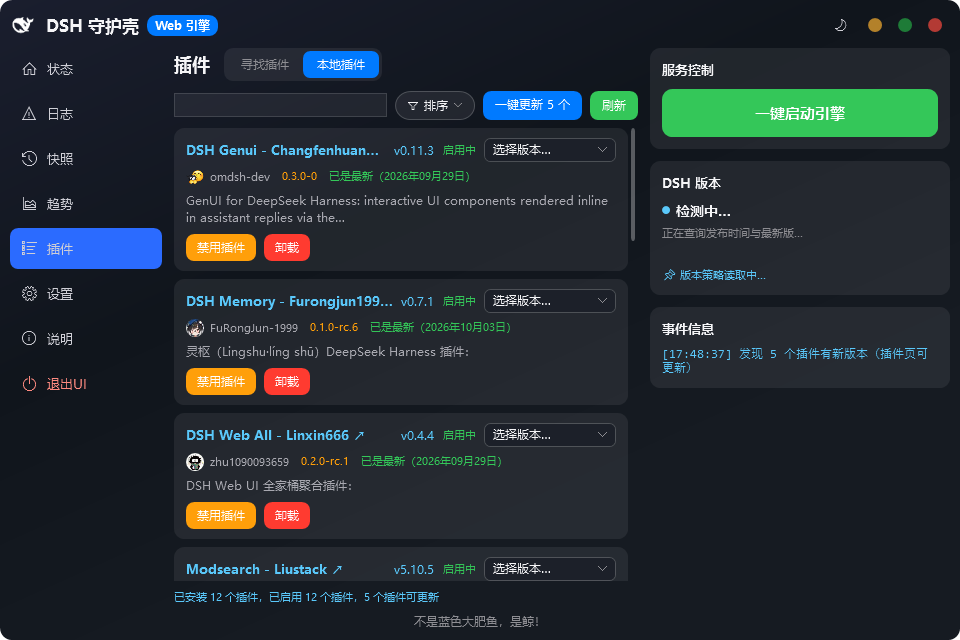
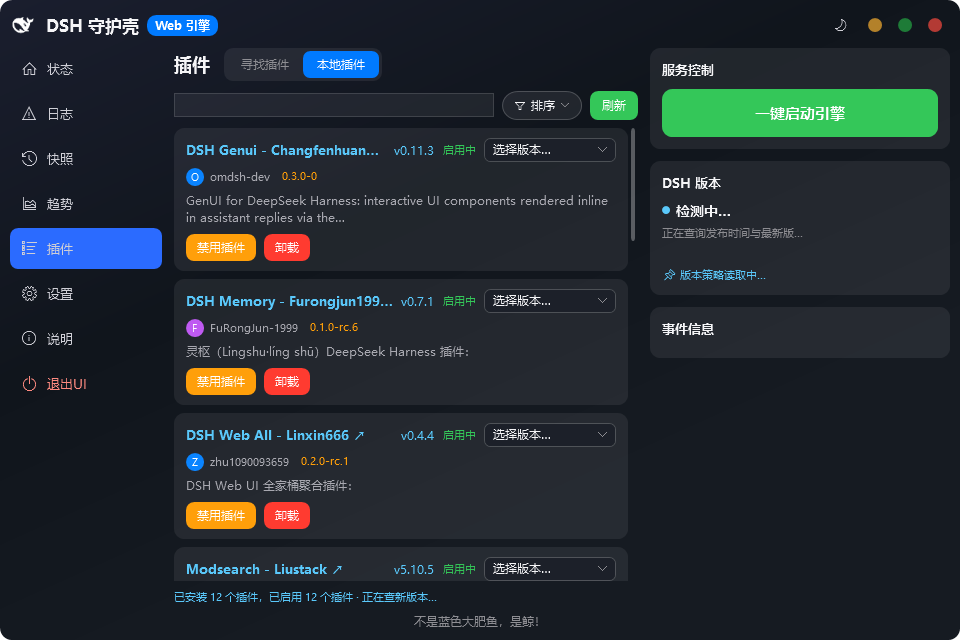
2.1.0：日志页「打开目录/导出诊断」改成品牌蓝实底，并修好 GitHub Contributors 少 DeepSeek

diff --git a/MainWindow.xaml b/MainWindow.xaml
@@ -652,14 +652,24 @@
                                     ToolTip="重新读取当前日志文件">
                                 <TextBlock Text="刷新" FontSize="12" Foreground="#F5F5F7"/>
                             </Border>
+                            <!-- 打开目录 / 导出诊断：原来是 MiniBtn 的默认半透明白（#18FFFFFF，日间映射成
+                                 半透明黑 ⇒ 灰底深字）。用户 2026-10-04 反馈"这俩按钮还是发黑"，
+                                 并要求"改个有颜色的" ⇒ 这里改回品牌蓝实底 #007AFF，与同排「复制日志」同色：
+                                 绿色「刷新」是这一行的主操作，其余三颗同色的次级操作，一眼分得出主次。
+                                 #007AFF 不在主题映射表里 ⇒ 两套主题同一个值；它满足 IsAccent 的
+                                 "b>180 && r<130" ⇒ 白字在两套主题下都保持白色。 -->
                             <Border Grid.Column="2" Style="{StaticResource MiniBtn}" Margin="8,0,0,0"
+                                    x:Name="LogOpenDirBtn"
+                                    Background="#007AFF"
                                     MouseLeftButtonDown="OpenLogFolder_Click" ToolTip="打开日志目录">
-                                <TextBlock Text="打开目录" FontSize="12" Foreground="#F5F5F7"/>
+                                <TextBlock Text="打开目录" FontSize="12" Foreground="White"/>
                             </Border>
                             <Border Grid.Column="3" Style="{StaticResource MiniBtn}" Margin="8,0,0,0"
+                                    x:Name="LogExportBtn"
+                                    Background="#007AFF"
                                     MouseLeftButtonDown="ExportDiagnostics_Click"
                                     ToolTip="把日志、设置与运行环境打包成一个压缩包（方便发给作者排查）">
-                                <TextBlock Text="导出诊断" FontSize="12" Foreground="#F5F5F7"/>
+                                <TextBlock Text="导出诊断" FontSize="12" Foreground="White"/>
                             </Border>
                             <Border Grid.Column="4" Style="{StaticResource MiniBtn}" Margin="8,0,0,0"
                                     Background="#007AFF" MouseLeftButtonDown="CopyLog_Click"
@@ -703,10 +713,12 @@
                                     MouseLeftButtonDown="RefreshSnapshots_Click" ToolTip="重新读取快照列表">
                                 <TextBlock Text="刷新" FontSize="12" Foreground="#F5F5F7"/>
                             </Border>
-                            <Border Style="{StaticResource MiniBtn}" Margin="8,0,0,0" MouseLeftButtonDown="OpenSnapshotDir_Click"
+                            <!-- 同日志页那一对：改品牌蓝实底，理由与理由见上面的注释（同一个按钮在两个页面长得一样）。 -->
+                            <Border Style="{StaticResource MiniBtn}" Margin="8,0,0,0" Background="#007AFF"
+                                    MouseLeftButtonDown="OpenSnapshotDir_Click"
                                     x:Name="SnapOpenDirBtn"
                                     ToolTip="在文件管理器里打开本程序的快照文件夹">
-                                <TextBlock Text="打开目录" FontSize="12" Foreground="#F5F5F7"/>
+                                <TextBlock Text="打开目录" FontSize="12" Foreground="White"/>
                             </Border>
                             <TextBlock x:Name="SnapRootText" FontSize="11" Foreground="#48484A"
                                        VerticalAlignment="Center" Margin="10,0,0,0" TextTrimming="CharacterEllipsis"/>

diff --git a/SelfTest.cs b/SelfTest.cs
@@ -8680,6 +8680,19 @@ public static partial class SelfTest
                     foundLog
                         ? $"文案=«{textLog}» · 底色={bgLog}（MiniBtn 默认底 #18FFFFFF 的 A=18 是半透明；实心绿应为 A=FF 的 #FF34C759）"
                         : "取不到 LogRefreshBtn（它应当是 Border；x:Name 被删或改成了 Button？）");
+                // 2026-10-04：「打开目录」「导出诊断」原是半透明默认底，日间实测 (198,199,200) 灰底深字 ——
+                // 用户反馈"这俩按钮还是发黑，改个有颜色的得了" ⇒ 现在两颗都得是品牌蓝实底 #FF007AFF。
+                {
+                    var n74Open = BorderBtnFacts(w, "LogOpenDirBtn");
+                    var n74Export = BorderBtnFacts(w, "LogExportBtn");
+                    string n74Blue = Color.FromRgb(0x00, 0x7A, 0xFF).ToString();
+                    Check("日志页「打开目录」「导出诊断」都改成品牌蓝实底 #FF007AFF（不再是发黑的半透明默认底）",
+                        n74Open.Found && n74Open.Text == "打开目录" &&
+                        n74Export.Found && n74Export.Text == "导出诊断" &&
+                        string.Equals(n74Open.Bg, n74Blue, StringComparison.OrdinalIgnoreCase) &&
+                        string.Equals(n74Export.Bg, n74Blue, StringComparison.OrdinalIgnoreCase),
+                        $"打开目录={n74Open.Found}/{n74Open.Bg} · 导出诊断={n74Export.Found}/{n74Export.Bg}（应均为 {n74Blue}）");
+                }
             }
 
             Trace("65-A 快照页两颗按钮");
@@ -8695,11 +8708,12 @@ public static partial class SelfTest
                     string.Equals(bgSnap, Color.FromRgb(0x34, 0xC7, 0x59).ToString(), StringComparison.OrdinalIgnoreCase),
                     foundSnap ? $"文案=«{textSnap}» · 底色={bgSnap}" : "取不到 SnapRefreshBtn（应当是 Border）");
                 // 「打开目录」是**陪跑**的那一颗：用户只要求「刷新」变绿，它跟着绿就把主次又抹平了。
-                // 判据是"文案对得上，且底色不是那颗绿"（默认半透明底本身就是 MiniBtn 的静息样式）。
-                Check("快照页「打开目录」保持默认底色（只有「刷新」变绿，别一起跟着绿）",
+                // 2026-10-04 再往前一步：用户嫌它"发黑"（默认半透明底 → 日间是灰底深字，实测 (198,199,200)），
+                // 要求"改个有颜色的" ⇒ 现在钉住它就是品牌蓝 #007AFF，既不是绿、也不是原来那颗半透明底。
+                Check("快照页「打开目录」是品牌蓝实底 #FF007AFF（不再是发黑的默认半透明底，也没跟着「刷新」变绿）",
                     foundOpen && textOpen == "打开目录" &&
-                    !string.Equals(bgOpen, Color.FromRgb(0x34, 0xC7, 0x59).ToString(), StringComparison.OrdinalIgnoreCase),
-                    foundOpen ? $"文案=«{textOpen}» · 底色={bgOpen}（应仍是 MiniBtn 默认的半透明底）"
+                    string.Equals(bgOpen, Color.FromRgb(0x00, 0x7A, 0xFF).ToString(), StringComparison.OrdinalIgnoreCase),
+                    foundOpen ? $"文案=«{textOpen}» · 底色={bgOpen}（应为 #FF007AFF）"
                               : "取不到 SnapOpenDirBtn（应当是 Border）");
             }
 

diff --git a/MainWindow.DesktopSide.cs b/MainWindow.DesktopSide.cs
@@ -225,7 +225,7 @@ public partial class MainWindow
 
             // ③ 日志目录一个入口（运维时最常用）
             var row2 = new StackPanel { Orientation = Orientation.Horizontal, Margin = new Thickness(0, 8, 0, 0) };
-            row2.Children.Add(HomeButton("打开日志目录", HomeMutedFill,
+            row2.Children.Add(HomeButton("打开日志目录", HomeActionFill,
                 () => OpenFolder(Logger.LogDirForTarget(GuardTarget.Desktop))));
             DesktopHomePanel.Children.Add(row2);
         }
@@ -271,21 +271,24 @@ public partial class MainWindow
             if (GuardPaths.DesktopExeFound) OpenFolder(GuardPaths.DesktopInstallDir);
             else GuardDialog.Show("未检测到桌面版安装目录。", "打开安装目录", MessageBoxButton.OK, MessageBoxImage.Information);
         }));
-        row.Children.Add(HomeButton("打开日志目录", HomeMutedFill, () => OpenFolder(Logger.LogDirForTarget(GuardTarget.Desktop))));
+        row.Children.Add(HomeButton("打开日志目录", HomeActionFill, () => OpenFolder(Logger.LogDirForTarget(GuardTarget.Desktop))));
         sp.Children.Add(row);
         return card;
     }
 
     /// <summary>
-    /// 主页里那颗中性按钮的底色。
+    /// 主页里「打开日志目录」那颗按钮的底色：品牌蓝 <c>#007AFF</c>。
     ///
-    /// 原来是实心 <c>#8E8E93</c>：夜间白字压得住，但**日间**映射成 <c>#6B6B70</c> 后是一块偏暗的
-    /// 中灰配近黑字，夹在「启动桌面版」绿与「打开安装目录」蓝中间，看上去就是一颗**禁用**按钮
-    /// （用户 2026-10-04 反馈"这个按钮发暗"）。改成与日志页「打开目录」同款的半透明白
-    /// <c>#18FFFFFF</c>（映射表里登记过：日间 → 半透明黑 ⇒ 浅灰底 + 深色字），两颗按钮从此长得一致。
-    /// 文字色不用管：<c>ThemeManager</c> 的"近白文字"规则会按上下文把它换成日间的深色。
+    /// 走过两轮才对：先是实心中灰 <c>#8E8E93</c>（用户 2026-10-04 反馈"发暗"，日间映射成
+    /// <c>#6B6B70</c> 深灰配近黑字，像颗禁用按钮），中途试过半透明白（<c>#18FFFFFF</c>，日间
+    /// 映射成半透明黑 ⇒ 灰底深字），**仍然被同一句反馈打回**（"这俩按钮还是发黑，
+    /// 你改个有颜色的得了"）。结论写在这里免得再改第四遍：这个位置要的是**实心强调色**，
+    /// 不是半透明底。取 <c>#007AFF</c> 是因为日志页 / 快照页的「打开目录」也是它 ——
+    /// 同名同动作的按钮在全应用长同一个样。
+    /// 不在主题映射表里 ⇒ 两套主题同一个值；满足 <c>IsAccent</c> 的 b&gt;180 &amp;&amp; r&lt;130
+    /// ⇒ 白字在两套主题下都保持白色（见 <c>ThemeManager.RemapText</c> 的近白文字规则）。
     /// </summary>
-    private static readonly Color HomeMutedFill = Color.FromArgb(0x18, 0xFF, 0xFF, 0xFF);
+    private static readonly Color HomeActionFill = Color.FromRgb(0x00, 0x7A, 0xFF);
 
     /// <summary>主页里的扁按钮（沿用迷你按钮那套配色与手型光标 ⇒ ButtonFx 会自动给它悬停/按下动效）。</summary>
     private static Border HomeButton(string text, Color background, Action onClick)

diff --git a/CHANGELOG.md b/CHANGELOG.md
@@ -42,7 +42,9 @@
 
 - 修复鼠标**悬停后下拉框变黑**的问题：插件页「选择版本」下拉与列表项的悬停态只写了夜间配色（底色直接写死深色），日间模式下悬停会漏出一块黑底。现改为按当前主题叠加半透明提亮，两套主题各自成立。
 - 修复日间模式下对话框卡片仍是旧亮色（`#F2F3F7`）的问题，与主界面降亮后的调色保持一致。
-- **修复"按钮发暗"**：说明页「快捷操作」那四颗按钮的底色在夜间与背后卡片几乎同色（实测对比度仅 1.04），看着像一块暗色；现提到 `#33FFFFFF`（对比度 1.91），与右栏其它按钮一样立得起来。桌面版主页与「设置 → 版本」里那颗「打开日志目录」原是实心中灰（夜间 `#8E8E93` / 日间 `#6B6B70`），夹在绿蓝按钮中间像一颗禁用按钮，改成与日志页「打开目录」同款的半透明底。
+- **修复"按钮发暗"**：说明页「快捷操作」那四颗按钮的底色在夜间与背后卡片几乎同色（实测对比度仅 1.04），看着像一块暗色；现提到 `#33FFFFFF`（对比度 1.91），与右栏其它按钮一样立得起来。桌面版主页与「设置 → 版本」里那颗「打开日志目录」原是实心中灰（夜间 `#8E8E93` / 日间 `#6B6B70`），夹在绿蓝按钮中间像一颗禁用按钮。
+- **日志页「打开目录」「导出诊断」改成品牌蓝实底**（`#007AFF`）：这两颗原来是半透明白底，日间映射成半透明黑，实测是 `(198,199,200)` 的灰底配深色字，压在白卡片上就是两块"发黑"的灰斑（用户原话："这俩按钮还是发黑，你改个有颜色的得了"）。半透明底试过一轮仍不够，最后定为实心强调色——这一行里绿色「刷新」是主操作，其余三颗同色的次级操作。
+- 快照页与桌面版主页的「打开目录 / 打开日志目录」同步改成同一支蓝：同名同动作的按钮在全应用长同一个样。
 
 ## [2.0.1] - 2026-10-01
 
